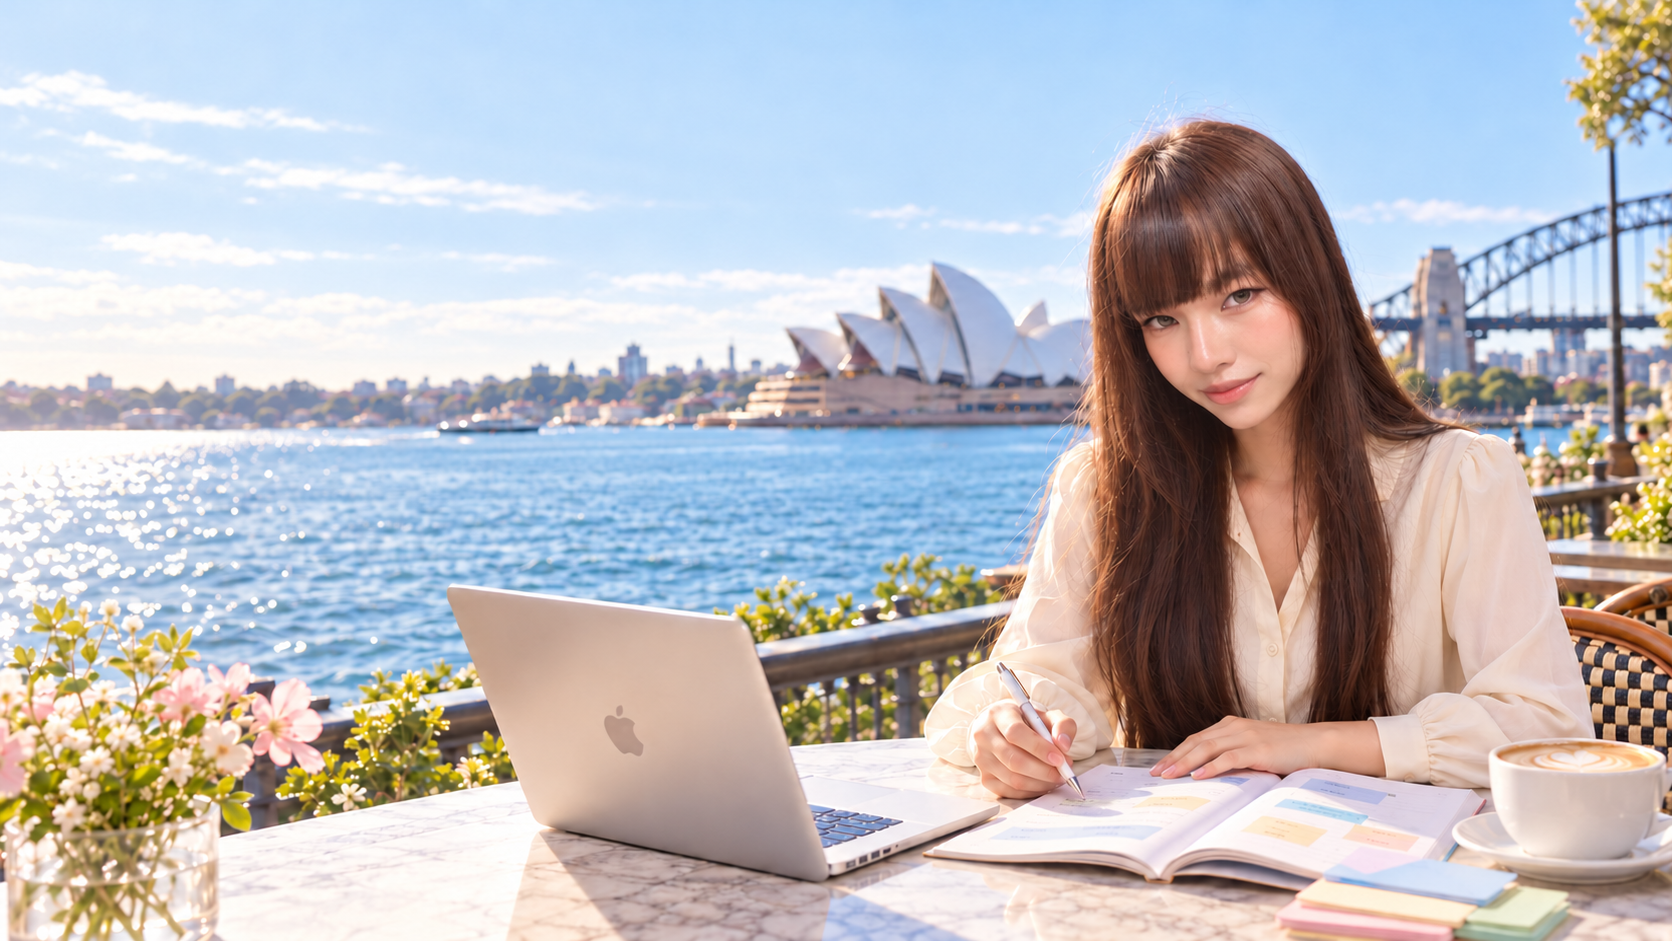
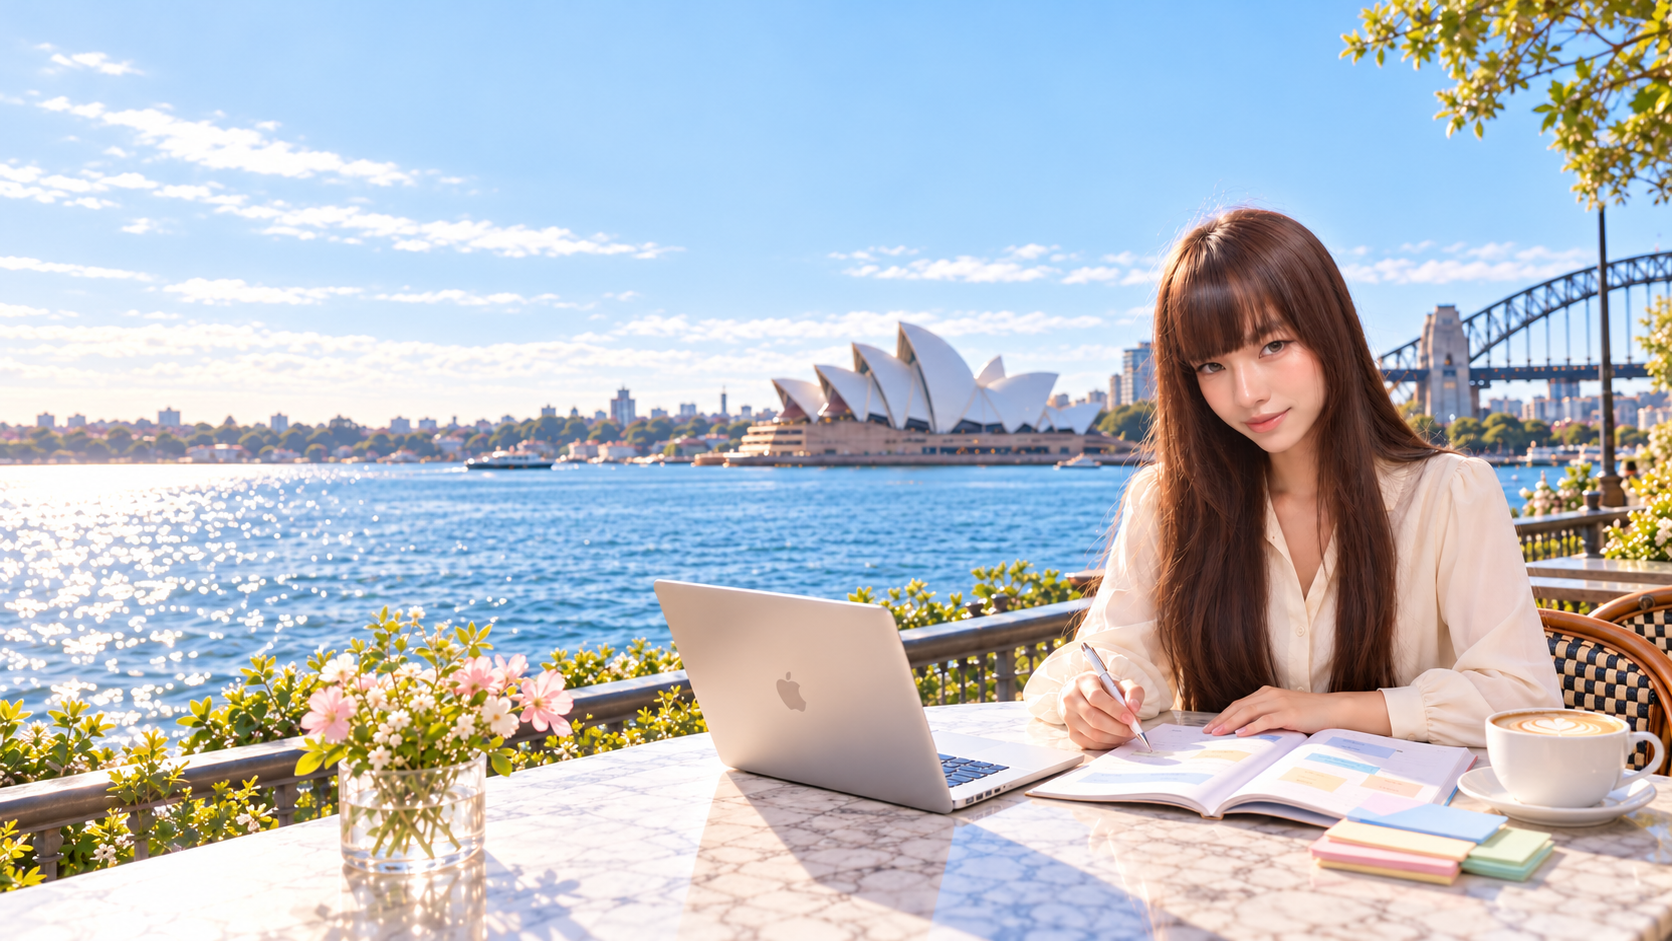
delete text on bg

diff --git a/index.html b/index.html
@@ -109,12 +109,7 @@
 
   <div class="relative max-w-7xl mx-auto px-4 sm:px-6 py-14 lg:py-20 grid lg:grid-cols-2 gap-10 items-center">
     <div class="relative z-10">
-      <p class="text-brand-pink font-semibold tracking-wider text-sm" data-i18n="hero_tag"></p>
-      <h1 class="mt-4 text-4xl sm:text-5xl lg:text-6xl font-extrabold leading-tight">
-        <span data-i18n="hero_t1"></span><br />
-        <span data-i18n="hero_t2" data-html></span>
-      </h1>
-      <p class="mt-6 text-gray-700 max-w-md leading-relaxed" data-i18n="hero_p"></p>
+      
       <div class="mt-8 flex flex-wrap gap-3">
         <a href="#contact" class="inline-flex items-center gap-2 bg-brand-pink hover:bg-brand-pinkdark text-white font-semibold px-6 py-3.5 rounded-xl shadow-lg shadow-pink-200 transition">
           <span>📅</span><span data-i18n="cta_trial"></span>
